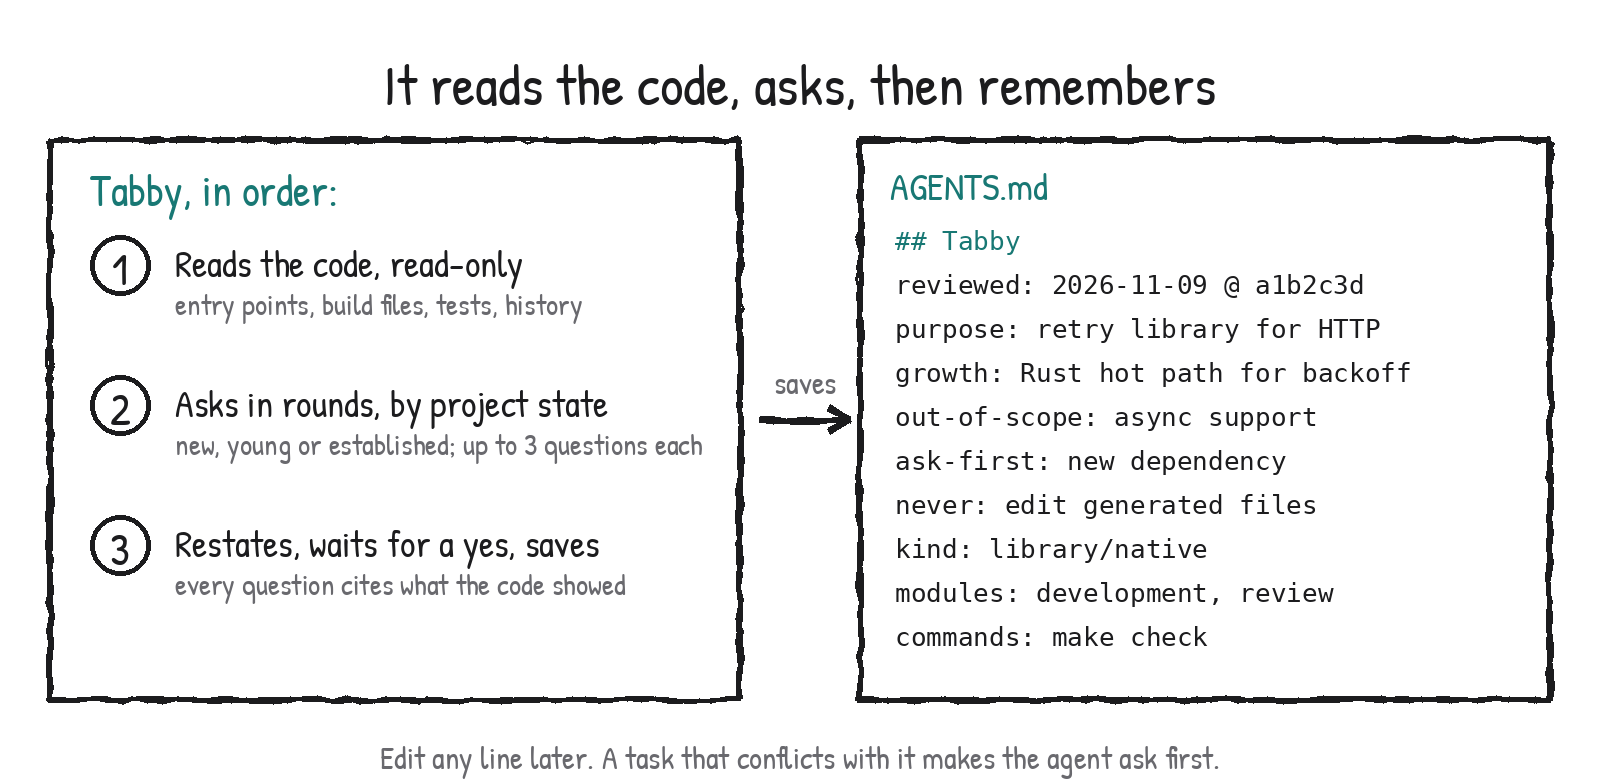
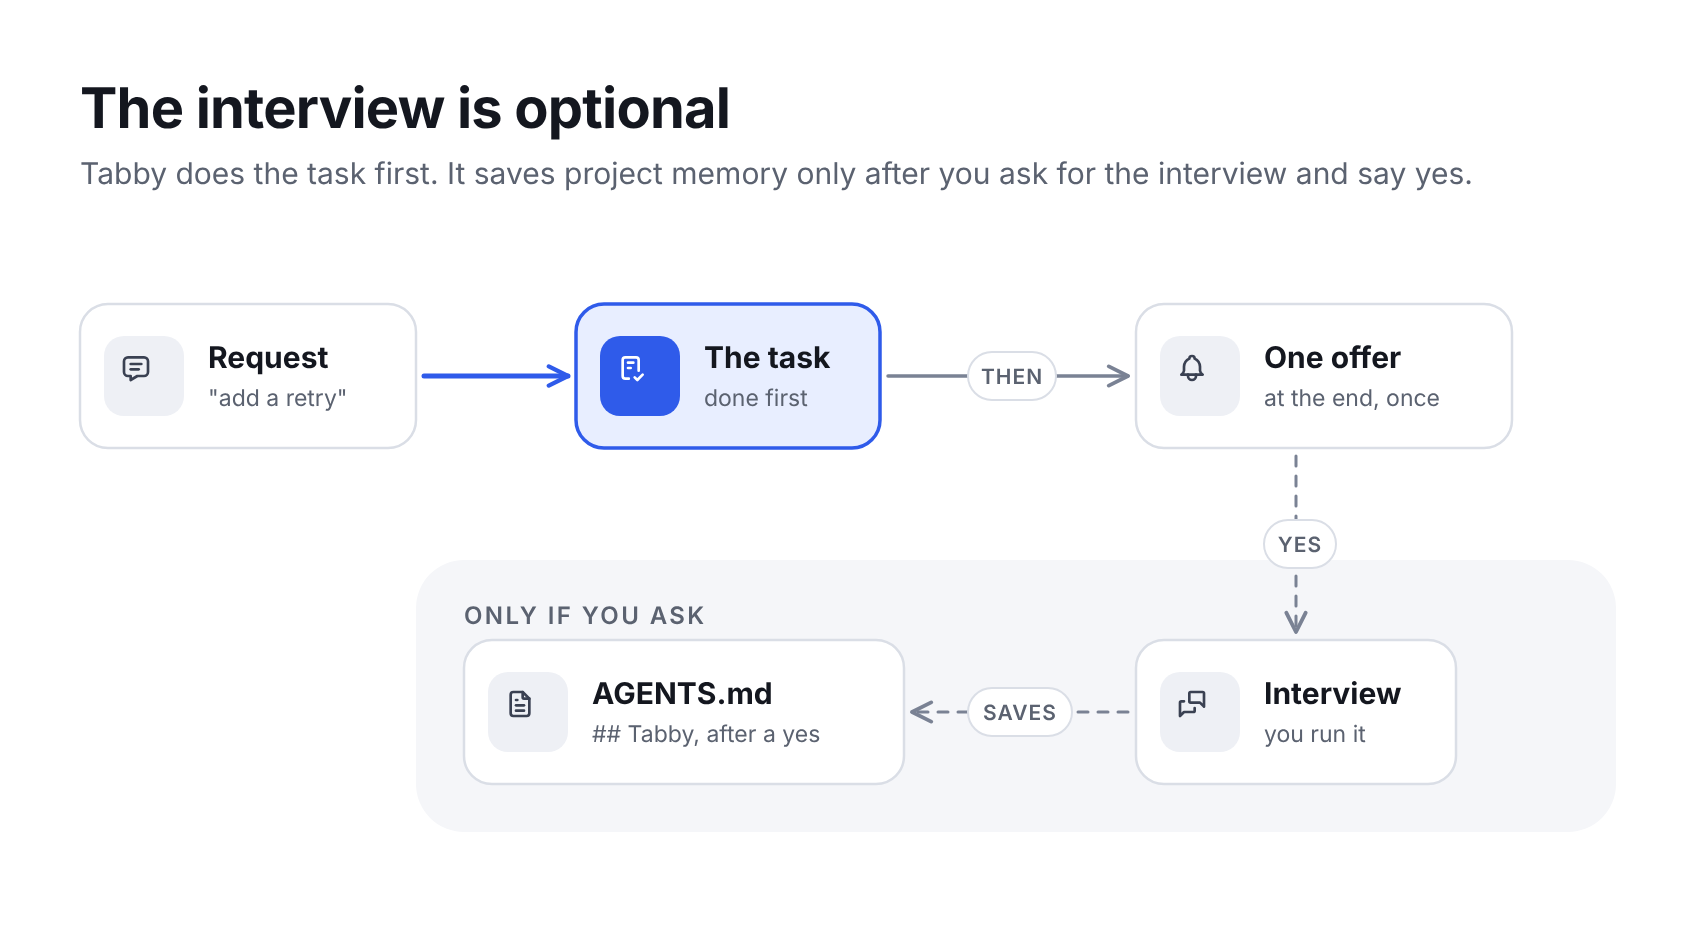
README: regenerate the stale pictures with the new builder
The how-it-works and interview pictures showed the interview as the first
step. Rebuild them from small specs (kept in assets/src/) so the interview
is shown as optional, drop the 'older picture' notes from the alt text,
describe the design and review modules as they now are, and credit
taste-skill, unlazy and Tabler Icons.

Claude-Session: https://claude.ai/code/session_01XpQkR1BvRPUhBjrsHrR7q3

Changed region(s): [[0.0312, 0.0923, 0.9688, 0.9231], [0.2188, 0.9538, 0.75, 1.0]]

diff --git a/README.md b/README.md
@@ -67,7 +67,7 @@ Only install Tabby from `RelativelyUnknown/my-skills` on GitHub. Delete `tabby/e
   <picture>
     <source media="(prefers-color-scheme: dark)" srcset="assets/how-it-works-dark.png">
     <source media="(prefers-color-scheme: light)" srcset="assets/how-it-works-light.png">
-    <img src="assets/how-it-works-light.png" width="720" alt="(Older picture: it shows the interview as the first step. It is now optional.) How Tabby routes a task. A request goes to the Tabby router, which reads the Tabby section of AGENTS.md, or infers the scope if there is none, and then loads only the modules the task needs: development, review, documentation or design.">
+    <img src="assets/how-it-works-light.png" width="720" alt="How Tabby routes a task. A request goes to the Tabby router, which reads the Tabby section of AGENTS.md, or infers the scope if there is none, and then loads only the modules the task needs: development, review, documentation or design.">
   </picture>
 </p>
 
@@ -79,7 +79,7 @@ One skill is registered with your agent: `tabby`. Four modules sit inside it, an
   <picture>
     <source media="(prefers-color-scheme: dark)" srcset="assets/interview-dark.png">
     <source media="(prefers-color-scheme: light)" srcset="assets/interview-light.png">
-    <img src="assets/interview-light.png" width="860" alt="(Older picture: it shows the interview as the first step. It is now optional.) Tabby reads the code read-only, asks in rounds that depend on the project's state, then restates, waits for a yes and saves. The answers are saved as a Tabby section in AGENTS.md with purpose, growth, out of scope, boundaries, kind, modules and the check command.">
+    <img src="assets/interview-light.png" width="860" alt="The interview is optional. Tabby does the task first and makes one offer at the end. Only if you ask for the interview, and say yes to its summary, does it save a Tabby section to AGENTS.md.">
   </picture>
 </p>
 
@@ -96,9 +96,9 @@ Your expected growth shapes the code. Say a hot path may move to Rust and the ag
 | Module | What it does |
 | --- | --- |
 | [`tabby/development/`](tabby/development/) | Writing, testing, packaging and running Python: errors, minimalism, typing, dependencies and uv, CI, performance, libraries, services, workers, design patterns, and design fit (choosing the data structure or representation that suits the workload and the project's plans, with worked examples from ruff, uv, polars and pandas). Rust or C behind a Python API: layouts, PyO3, the C API, wheels and CI |
-| [`tabby/review/`](tabby/review/) | Self-review of a change, a security audit that separates confirmed bugs from look-alikes, and a checklist for the Python and native boundary |
+| [`tabby/review/`](tabby/review/) | Self-review of a change, a security audit that separates confirmed bugs from look-alikes, a checklist for the Python and native boundary, and a design review of a diagram, animation or page that keeps judgment and measurement apart |
 | [`tabby/documentation/`](tabby/documentation/) | Documentation by what the reader needs: tutorial, how-to, reference, explanation, docstrings, README, changelog, ADRs, runbooks, troubleshooting |
-| [`tabby/design/`](tabby/design/) | Minimalist diagrams and explainer animations (SVG, MP4, WebM, GIF) |
+| [`tabby/design/`](tabby/design/) | Diagrams, explainer animations and interfaces in one quiet look (white ground, one accent, light and dark): a builder that turns a small spec into an SVG or an animated HTML file, a vendored icon set, and checkers that fail a crowded label, a missing title, low contrast or a jump at the loop boundary; plus screens, docs sites and README visuals for Python projects |
 
 ## The rules it never lets slide
 
@@ -156,7 +156,7 @@ It helps most when the right move is not obvious and a habit decides it: depreca
 
 ## Where the ideas came from
 
-Tabby takes ideas, rewritten in its own words, from [ponytail](https://github.com/DietrichGebert/ponytail), [caveman](https://github.com/JuliusBrussee/caveman), [BeautifulRust](https://github.com/morganlinton/BeautifulRust), [Cloudflare's security-audit skill](https://github.com/cloudflare/security-audit-skill), [addyosmani/agent-skills](https://github.com/addyosmani/agent-skills), [impeccable](https://github.com/pbakaus/impeccable), [diagram-design](https://github.com/cathrynlavery/diagram-design), [stack-diagram](https://github.com/caru-ini/stack-diagram) and others. Adapted material keeps its licence; see [`THIRD_PARTY_NOTICES.md`](THIRD_PARTY_NOTICES.md).
+Tabby takes ideas, rewritten in its own words, from [ponytail](https://github.com/DietrichGebert/ponytail), [caveman](https://github.com/JuliusBrussee/caveman), [BeautifulRust](https://github.com/morganlinton/BeautifulRust), [Cloudflare's security-audit skill](https://github.com/cloudflare/security-audit-skill), [addyosmani/agent-skills](https://github.com/addyosmani/agent-skills), [impeccable](https://github.com/pbakaus/impeccable), [taste-skill](https://github.com/Leonxlnx/taste-skill), [unlazy](https://github.com/Leonxlnx/unlazy), [diagram-design](https://github.com/cathrynlavery/diagram-design), [stack-diagram](https://github.com/caru-ini/stack-diagram) and others. The diagram icons are [Tabler Icons](https://github.com/tabler/tabler-icons) (MIT). Adapted material keeps its licence; see [`THIRD_PARTY_NOTICES.md`](THIRD_PARTY_NOTICES.md).
 
 ## Credits and licence
 
